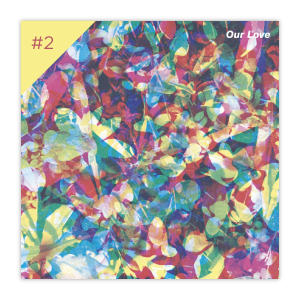
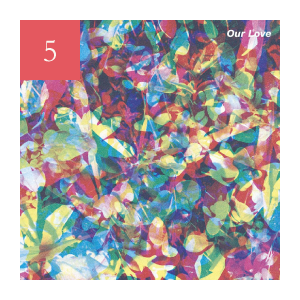
added some albums

diff --git a/index.html b/index.html
@@ -31,27 +31,45 @@
 
 <section class="clearfix">
 <div class="wrap">
-	<div class="album"><img src="images/albumart.png"></div>
+	<div class="album"><img src="images/wildbeasts.png"></div>
 	<div class="why">
-		<h1>ALBUM NAME</h1><br><h2>Artist Name</h2><br><p>Lorem ipsum dolor sit amet, consectetur adipiscing elit. Curabitur ornare, erat eget placerat semper, neque orci suscipit elit, eget rutrum nisi risus a elit. Sed lobortis urna eu augue porta, vel ullamcorper risus pretium. Donec quis nibh eget massa accumsan aliquet. In ex nisi, condimentum in purus in, vehicula iaculis lectus. Sed placerat elit eget viverra dignissim. Ut eu mollis urna. In hac habitasse platea dictumst.</p>
+		<h1>PRESENT TENSE</h1><br><h2>Wild Beasts</h2><br><p>Lorem ipsum dolor sit amet, consectetur adipiscing elit. Curabitur ornare, erat eget placerat semper, neque orci suscipit elit, eget rutrum nisi risus a elit. Sed lobortis urna eu augue porta, vel ullamcorper risus pretium. Donec quis nibh eget massa accumsan aliquet. In ex nisi, condimentum in purus in, vehicula iaculis lectus. Sed placerat elit eget viverra dignissim. Ut eu mollis urna. In hac habitasse platea dictumst.</p>
 	</div>
 </div>
 </section>
 
 <section class="clearfix">
 <div class="wrap">
-	<div class="album"><img src="images/albumart.png"></div>
+	<div class="album"><img src="images/angel.png"></div>
 	<div class="why">
-		<h1>ALBUM NAME</h1><br><h2>Artist Name</h2><br><p>Lorem ipsum dolor sit amet, consectetur adipiscing elit. Curabitur ornare, erat eget placerat semper, neque orci suscipit elit, eget rutrum nisi risus a elit. Sed lobortis urna eu augue porta, vel ullamcorper risus pretium. Donec quis nibh eget massa accumsan aliquet. In ex nisi, condimentum in purus in, vehicula iaculis lectus. Sed placerat elit eget viverra dignissim. Ut eu mollis urna. In hac habitasse platea dictumst.</p>
+		<h1>BURN YOUR FIRE FOR NO WITNESS</h1><br><h2>Angel Olsen</h2><br><p>Lorem ipsum dolor sit amet, consectetur adipiscing elit. Curabitur ornare, erat eget placerat semper, neque orci suscipit elit, eget rutrum nisi risus a elit. Sed lobortis urna eu augue porta, vel ullamcorper risus pretium. Donec quis nibh eget massa accumsan aliquet. In ex nisi, condimentum in purus in, vehicula iaculis lectus. Sed placerat elit eget viverra dignissim. Ut eu mollis urna. In hac habitasse platea dictumst.</p>
 	</div>
 </div>
 </section>
 
 <section class="clearfix">
 <div class="wrap">
-	<div class="album"><img src="images/albumart.png"></div>
+	<div class="album"><img src="images/skm.png"></div>
 	<div class="why">
-		<h1>ALBUM NAME</h1><br><h2>Artist Name</h2><br><p>Lorem ipsum dolor sit amet, consectetur adipiscing elit. Curabitur ornare, erat eget placerat semper, neque orci suscipit elit, eget rutrum nisi risus a elit. Sed lobortis urna eu augue porta, vel ullamcorper risus pretium. Donec quis nibh eget massa accumsan aliquet. In ex nisi, condimentum in purus in, vehicula iaculis lectus. Sed placerat elit eget viverra dignissim. Ut eu mollis urna. In hac habitasse platea dictumst.</p>
+		<h1>BENJI</h1><br><h2>Sun Kil Moon</h2><br><p>Lorem ipsum dolor sit amet, consectetur adipiscing elit. Curabitur ornare, erat eget placerat semper, neque orci suscipit elit, eget rutrum nisi risus a elit. Sed lobortis urna eu augue porta, vel ullamcorper risus pretium. Donec quis nibh eget massa accumsan aliquet. In ex nisi, condimentum in purus in, vehicula iaculis lectus. Sed placerat elit eget viverra dignissim. Ut eu mollis urna. In hac habitasse platea dictumst.</p>
+	</div>
+</div>
+</section>
+
+<section class="clearfix">
+<div class="wrap">
+	<div class="album"><img src="images/sharon.png"></div>
+	<div class="why">
+		<h1>ARE WE THERE</h1><br><h2>Sharon Van Etten</h2><br><p>Lorem ipsum dolor sit amet, consectetur adipiscing elit. Curabitur ornare, erat eget placerat semper, neque orci suscipit elit, eget rutrum nisi risus a elit. Sed lobortis urna eu augue porta, vel ullamcorper risus pretium. Donec quis nibh eget massa accumsan aliquet. In ex nisi, condimentum in purus in, vehicula iaculis lectus. Sed placerat elit eget viverra dignissim. Ut eu mollis urna. In hac habitasse platea dictumst.</p>
+	</div>
+</div>
+</section>
+
+<section class="clearfix">
+<div class="wrap">
+	<div class="album"><img src="images/caribou.png"></div>
+	<div class="why">
+		<h1>OUR LOVE</h1><br><h2>Caribou</h2><br><p>Lorem ipsum dolor sit amet, consectetur adipiscing elit. Curabitur ornare, erat eget placerat semper, neque orci suscipit elit, eget rutrum nisi risus a elit. Sed lobortis urna eu augue porta, vel ullamcorper risus pretium. Donec quis nibh eget massa accumsan aliquet. In ex nisi, condimentum in purus in, vehicula iaculis lectus. Sed placerat elit eget viverra dignissim. Ut eu mollis urna. In hac habitasse platea dictumst.</p>
 	</div>
 </div>
 </section>
